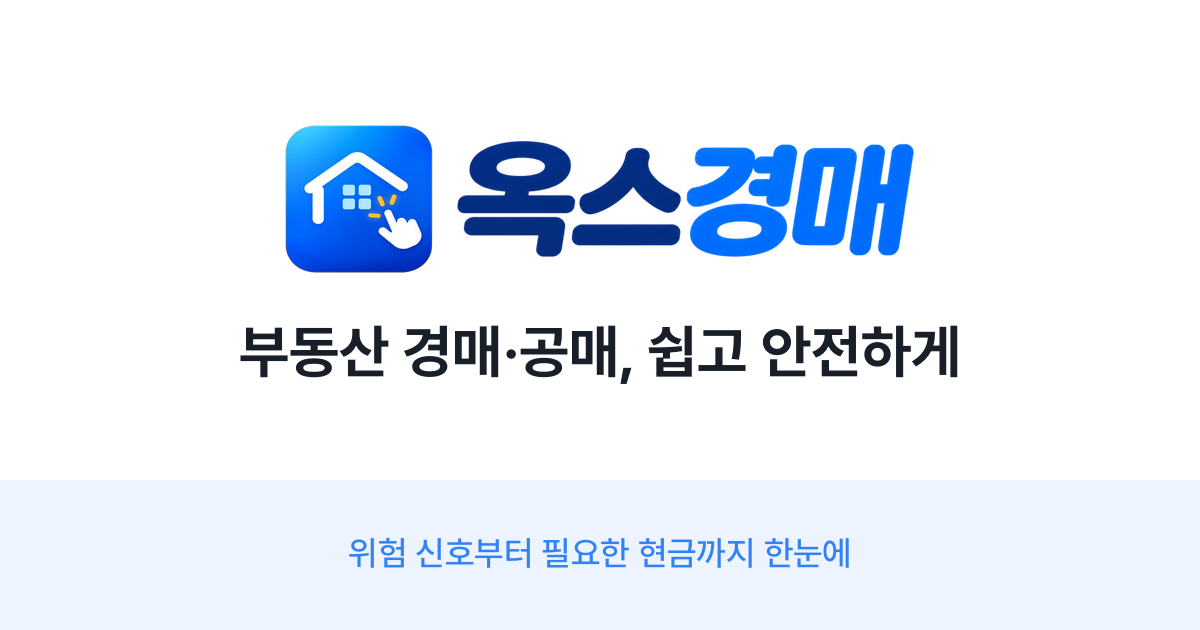
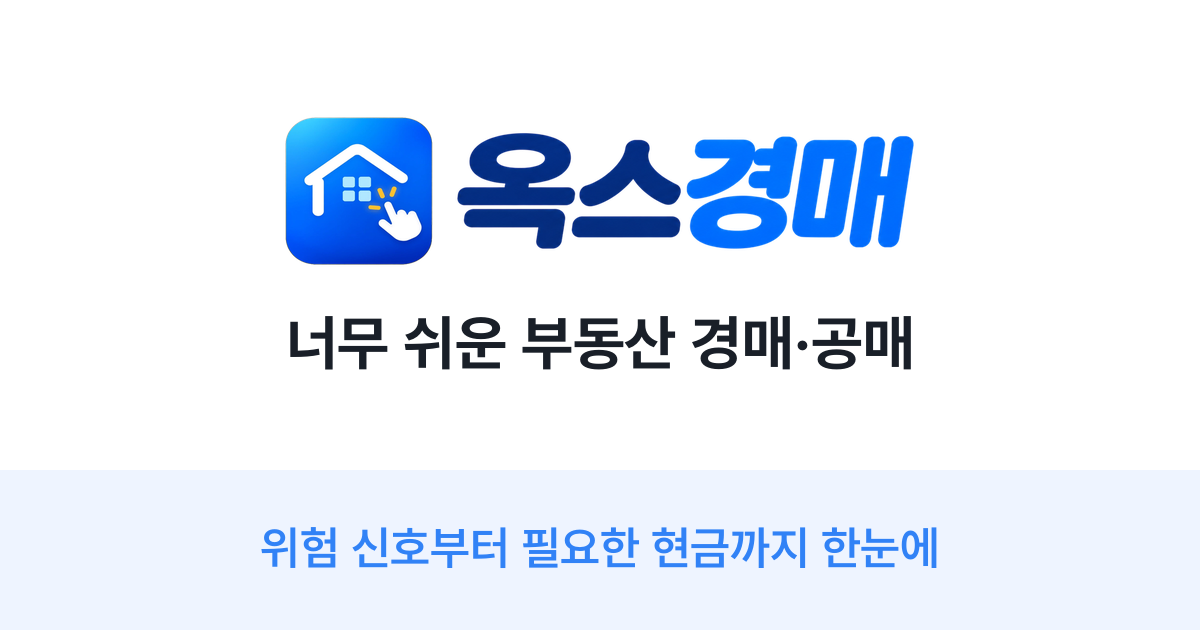
feat(og): 카드 글 「너무 쉬운 부동산 경매·공매」 · 아랫줄 더 크게
Claude-Session: https://claude.ai/code/session_01JTMh2M2X94jf7rSyTT3Fsy

diff --git a/apps/web/lib/copy.ko.ts b/apps/web/lib/copy.ko.ts
@@ -5,7 +5,7 @@ export const copy = {
   appName: "옥스경매", // 화면 안 로고·머리 이름(11/4 「옥스」→「옥스경매」)
   siteTitle: "옥스경매", // 브라우저 탭·검색 결과에 보이는 이름(11/4)
   // 카톡 · 문자에 주소를 붙였을 때 뜨는 카드의 글(11/16) — 그림은 public/brand/og.png
-  siteDesc: "부동산 경매·공매, 쉽고 안전하게 — 위험 신호부터 필요한 현금까지 한눈에",
+  siteDesc: "너무 쉬운 부동산 경매·공매 — 위험 신호부터 필요한 현금까지 한눈에",
   health: {
     api: "API 연결",
     db: "DB 연결",
